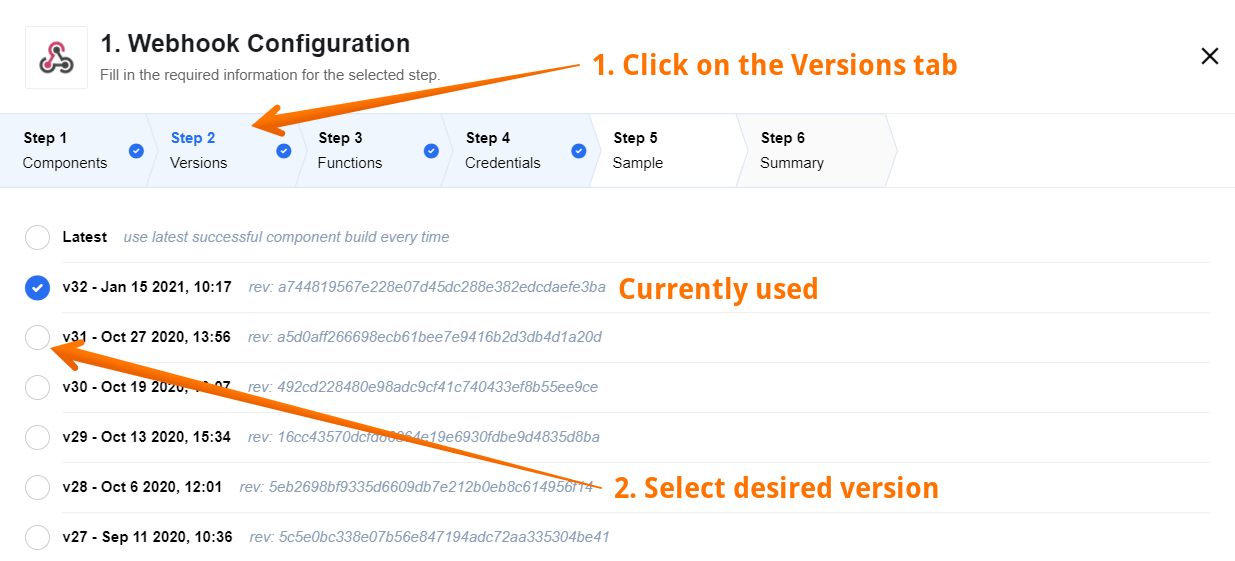
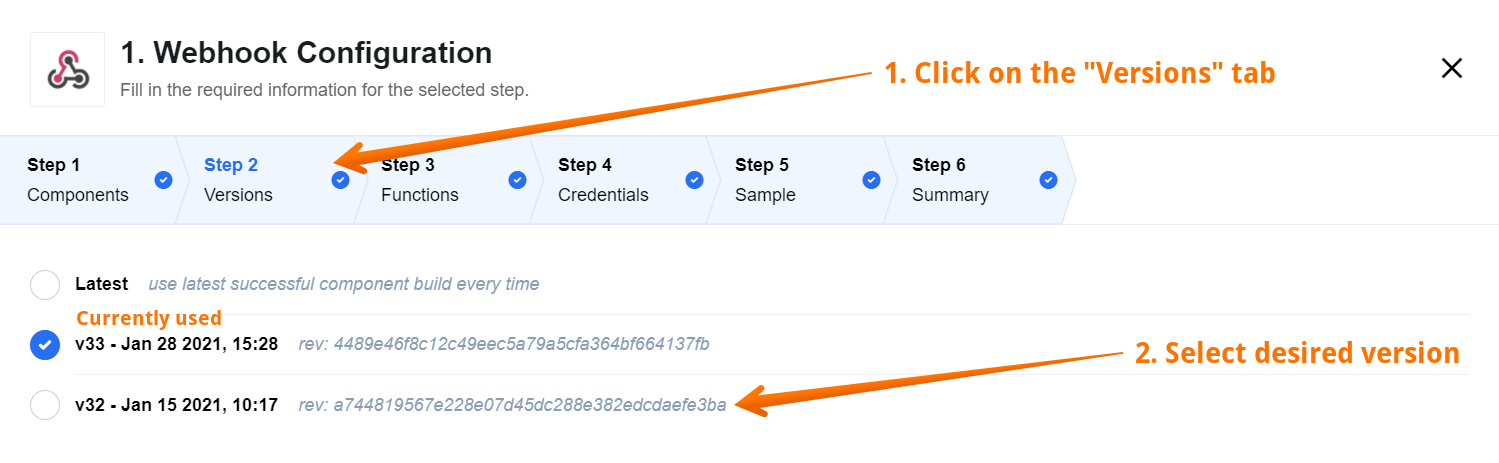
component version article rework

diff --git a/content/_guides/fix-a-component-version-for-a-particular-flow.md b/content/_guides/fix-a-component-version-for-a-particular-flow.md
@@ -1,17 +1,11 @@
 ---
-title: Integration flow version
+title: Component version
 description: This document provides information on a component versions, build history and how to fix a component version for a particular flow.
 layout: article
 section: Building integration flows
 category: building integration flows
 order: 10
 ---
-
-## Latest Component Version
-
- The exact latest version of a component is set by default instead of "latest" for existing integration flows and while creating the new ones:
-
- ![Lates component version](/assets/img/integrator-guide/fix-a-component-version/latest.png)
 
 ## Build History
 
@@ -26,6 +20,30 @@ In this example, there are 11 distinct deployments and each one has its version.
 However, what if you want to use say v10 from these deployments because there is one feature (Action or Trigger) you need in that specific version? What if you want to create two or more integration flows using the different versions just to test the behavior of your code? **So how to fix a specific version of the component for a particular flow?**
 
 The answer is simple, fix the component version during the flow creation!
+
+## Latest Component Version
+
+ The exact latest version of a component is set by default instead of "latest" for existing integration flows and while creating the new ones:
+
+ ![Lates component version](/assets/img/integrator-guide/fix-a-component-version/latest.png)
+
+## Reduce list of component version
+
+We decided to limit the selectable options in the UI to the `latest` and last 2 published versions. Of course, all versions remain selectable via the API. However, we discourage you to use older version of the components to ensure better performance of your flows.
+
+{% include img.html max-width="100%" url="/assets/img/RN/2141/rn2141-reduce-list-of-component-versions.png" title="Reduce list of component version" %}
+
+Previously, on the **Versions** tab of the component configuration, you could select any previously released version of the component. However, there are very few reasons why users need to be able to select very old versions in the user interface. We decided to limit the selectable options in the UI to the latest and last 2 published versions. Of course, all versions remain selectable via the API.
+
+{% include img.html max-width="100%" url="/assets/img/RN/2141/rn2141-reduce-list-of-component-versions.png" title="Reduce list of component version" %}
+
+If you had a version selected that is older than the last two published versions, that version remains selected and visible.
+
+{% include img.html max-width="100%" url="/assets/img/integrator-guide/fix-a-component-version/old-select-version-visible.png" title="Old selected version is visible" %}
+
+However, as soon as you decide to select the newer version from the last two, the old version disappears from the available ones.
+
+{% include img.html max-width="100%" url="/assets/img/integrator-guide/fix-a-component-version/old-version-disappears-after-newer-selected.png" title="Old version disappears after newer selected" %}
 
 ## Fix the Component Version
 
